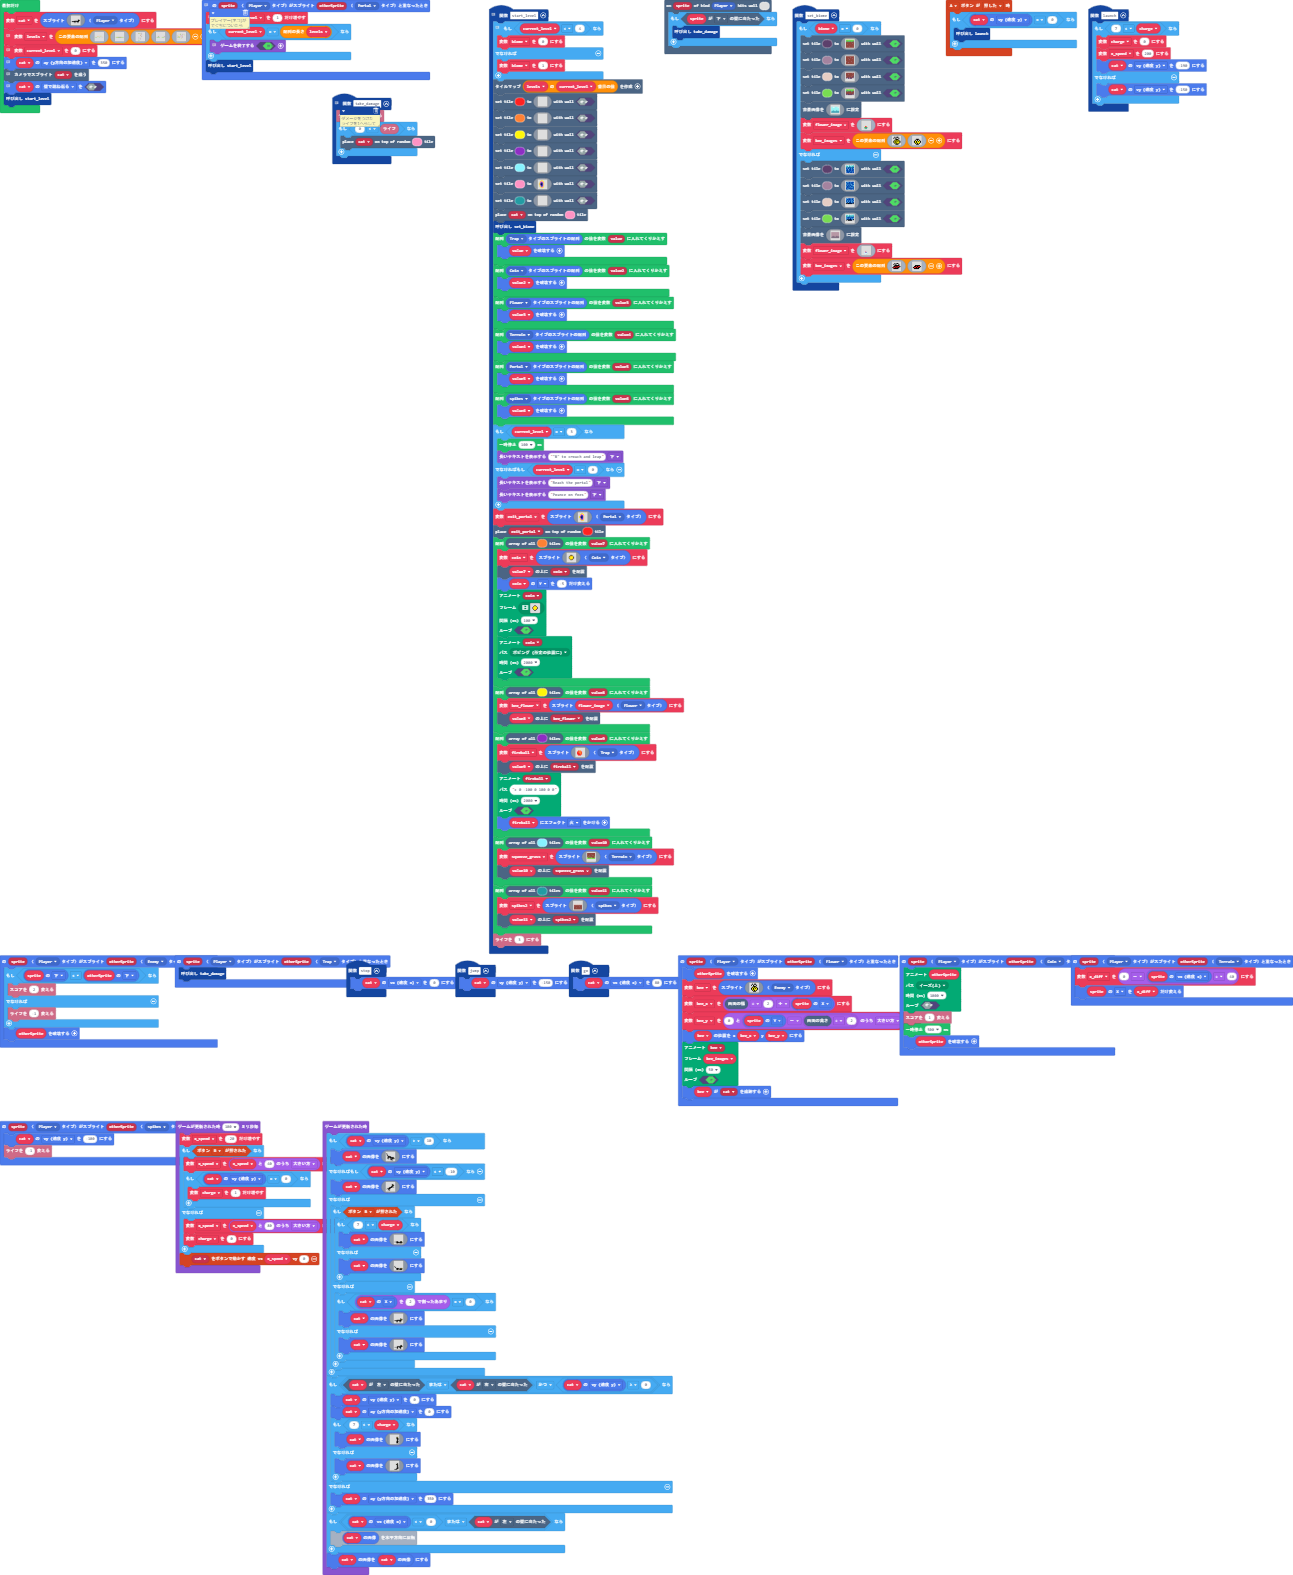
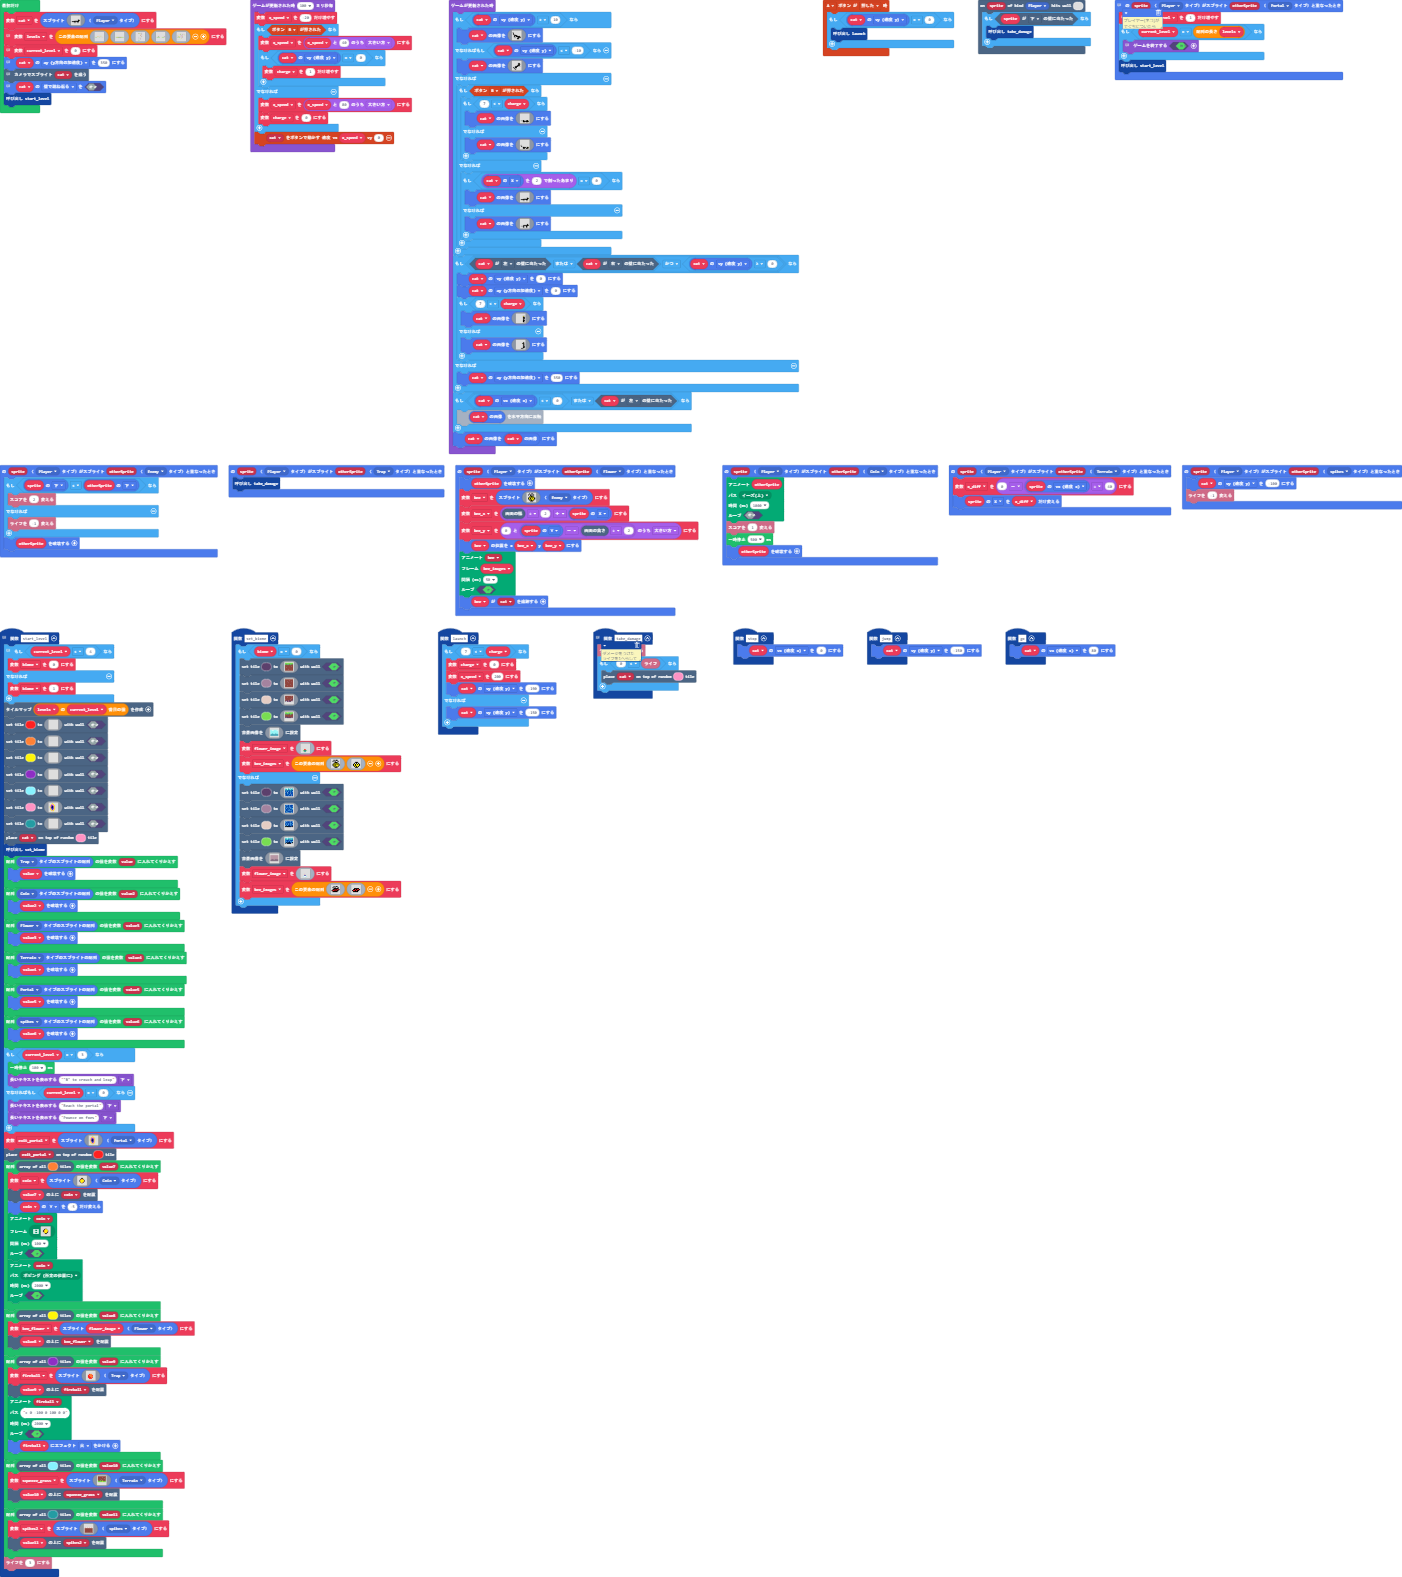
整形

Changed region(s): [[0.0, 0.0, 1.0, 1.0]]

diff --git a/main.ts b/main.ts
@@ -6,17 +6,13 @@ namespace SpriteKind {
     export const Terrain = SpriteKind.create()
     export const spikes = SpriteKind.create()
 }
-// スパイクにあたったら、vy=-100で、とびあがり、ライフがへる
 sprites.onOverlap(SpriteKind.Player, SpriteKind.spikes, function (sprite, otherSprite) {
     cat.vy = -100
     info.changeLifeBy(-1)
 })
-// わなにあたったらダメージ
 sprites.onOverlap(SpriteKind.Player, SpriteKind.Trap, function (sprite, otherSprite) {
     take_damage()
 })
-// コインにあたったら、コインは、とびあがってなくなり
-// スコアが、1ふえる
 sprites.onOverlap(SpriteKind.Player, SpriteKind.Coin, function (sprite, otherSprite) {
     animation.runMovementAnimation(
     otherSprite,
@@ -28,8 +24,6 @@ sprites.onOverlap(SpriteKind.Player, SpriteKind.Coin, function (sprite, otherSpr
     pause(500)
     otherSprite.destroy()
 })
-// チャージが7より大きかったら、チャージつかって、だいジャンプ x_seed=200 vy=-190
-// それいがいなら、ふつうのジャンプ vy=-150
 function launch () {
     if (7 < charge) {
         charge = 0
@@ -62,15 +56,11 @@ function take_damage () {
         scene.placeOnRandomTile(cat, 3)
     }
 }
-// しろいタイルに下から、あたったらダメージ
 scene.onHitTile(SpriteKind.Player, 0, function (sprite) {
     if (sprite.isHittingTile(CollisionDirection.Bottom)) {
         take_damage()
     }
 })
-// はなとぶつかると、はなは、きえて、
-// がめんのばふんぶん、右で、
-// がめんないでがめんのたかさのはんぶんぶんうえから、はちがでてくる。
 sprites.onOverlap(SpriteKind.Player, SpriteKind.Flower, function (sprite, otherSprite) {
     otherSprite.destroy()
     bee = sprites.create(img`
@@ -194,7 +184,6 @@ function start_level () {
         . . . . . . . . . . . . . . . . 
         . . . . . . . . . . . . . . . . 
         `, false)
-    // ピンクがいりぐち
     scene.setTile(3, img`
         . . . . . 5 5 5 . . . . . . . . 
         . . . . 5 3 3 5 5 . . . . . . . 
@@ -231,11 +220,8 @@ function start_level () {
         . . . . . . . . . . . . . . . . 
         . . . . . . . . . . . . . . . . 
         `, false)
-    // ネコはピンク(いりぐち)にいく
     scene.placeOnRandomTile(cat, 3)
     set_biome()
-    // はいれつのなかみをけす
-    // trapわな Coinコイン Flowerはな Terrainトンネル Potalでぐち spikesスパイク
     for (let value of sprites.allOfKind(SpriteKind.Trap)) {
         value.destroy()
     }
@@ -256,7 +242,6 @@ function start_level () {
     }
     if (current_level == 3) {
         pause(100)
-        // Bは、しゃがんでジャンプ
         game.showLongText("\"B\" to crouch and leap", DialogLayout.Bottom)
     } else if (current_level == 0) {
         game.showLongText("Reach the portal", DialogLayout.Bottom)
@@ -280,9 +265,7 @@ function start_level () {
         . . . . 5 3 3 3 5 5 . . . . . . 
         . . . . . 5 5 5 5 . . . . . . . 
         `, SpriteKind.Portal)
-    // あかのタイルが出口
     scene.placeOnRandomTile(exit_portal, 2)
-    // オレンジのタイルはコイン
     for (let value7 of scene.getTilesByType(4)) {
         coin = sprites.create(img`
             . . . . . . . . . . . . . . . . 
@@ -304,7 +287,6 @@ function start_level () {
             `, SpriteKind.Coin)
         value7.place(coin)
         coin.y += -5
-        // まわるコイン
         animation.runImageAnimation(
         coin,
         [img`
@@ -447,7 +429,6 @@ function start_level () {
         100,
         true
         )
-        // 2びょうごとにコインははねる
         animation.runMovementAnimation(
         coin,
         animation.animationPresets(animation.bobbing),
@@ -455,12 +436,10 @@ function start_level () {
         true
         )
     }
-    // きいろタイルは、はな
     for (let value8 of scene.getTilesByType(5)) {
         bee_flower = sprites.create(flower_image, SpriteKind.Flower)
         value8.place(bee_flower)
     }
-    // むらさきのタイルは、ひのたま
     for (let value9 of scene.getTilesByType(10)) {
         fireball = sprites.create(img`
             . . . . . . . . 
@@ -473,7 +452,6 @@ function start_level () {
             . . . . . . . . 
             `, SpriteKind.Trap)
         value9.place(fireball)
-        // うごきまわる、ひのたま
         animation.runMovementAnimation(
         fireball,
         "c 0 -100 0 100 0 0",
@@ -482,7 +460,6 @@ function start_level () {
         )
         fireball.startEffect(effects.fire)
     }
-    // みずいろのタイルは、トンネル
     for (let value10 of scene.getTilesByType(9)) {
         squeeze_grass = sprites.create(img`
             e e e e e e e e e e e e e e e e 
@@ -504,7 +481,6 @@ function start_level () {
             `, SpriteKind.Terrain)
         value10.place(squeeze_grass)
     }
-    // みどりのタイルは、スパイク
     for (let value11 of scene.getTilesByType(6)) {
         spikes2 = sprites.create(img`
             . . . . . . . . . . . . . . . . 
@@ -531,13 +507,10 @@ function start_level () {
 function jump () {
     cat.vy = -150
 }
-// トンネルではゆっくりと、すすませる
 sprites.onOverlap(SpriteKind.Player, SpriteKind.Terrain, function (sprite, otherSprite) {
     x_diff = 0 - sprite.vx / 40
     sprite.x += x_diff
 })
-// biomeへんすうが0なら、つちのタイル
-// それ以外ならば、うみのタイルをよういする。
 function set_biome () {
     if (biome == 0) {
         scene.setTile(12, img`
@@ -1005,8 +978,6 @@ function set_biome () {
             `]
     }
 }
-// てきにぶつかったときに、上からならばスコア+2
-// そうでなければ、ライフ-1  そして、てきはいなくなる
 sprites.onOverlap(SpriteKind.Player, SpriteKind.Enemy, function (sprite, otherSprite) {
     if (sprite.bottom < otherSprite.bottom) {
         info.changeScoreBy(2)
@@ -1018,7 +989,6 @@ sprites.onOverlap(SpriteKind.Player, SpriteKind.Enemy, function (sprite, otherSp
 function go () {
     cat.vx = 80
 }
-// Aボタンがおされたときに、とんでなかったら、ジャンプ
 controller.A.onEvent(ControllerButtonEvent.Pressed, function () {
     if (cat.vy == 0) {
         launch()
@@ -1166,7 +1136,6 @@ scene.cameraFollowSprite(cat)
 cat.setFlag(SpriteFlag.BounceOnWall, false)
 start_level()
 game.onUpdate(function () {
-    // vyにより、とんでいる、おりている、イメージ変える。
     if (cat.vy > 10) {
         cat.setImage(img`
             . . . . . . . . . . . . . . . . 
@@ -1206,7 +1175,6 @@ game.onUpdate(function () {
             . . . . . f . . . . . . . . . . 
             `)
     } else {
-        // あるいていて、Bボタンならチャージたいせいで、チャージがおわったら、しっぽを下げる
         if (controller.B.isPressed()) {
             if (7 < charge) {
                 cat.setImage(img`
@@ -1248,7 +1216,6 @@ game.onUpdate(function () {
                     `)
             }
         } else {
-            // Xいちの、きすうぐうすうで、あるいているイメージをいれかえる
             if (cat.x % 2 == 0) {
                 cat.setImage(img`
                     . . . . . . . . . . . . . . . . 
@@ -1290,11 +1257,9 @@ game.onUpdate(function () {
             }
         }
     }
-    // おちていなければ、かべにつかまる
     if ((cat.isHittingTile(CollisionDirection.Left) || cat.isHittingTile(CollisionDirection.Right)) && cat.vy >= 0) {
         cat.vy = 0
         cat.ay = 0
-        // かべでのチャージのイメージのいれかえ
         if (7 < charge) {
             cat.setImage(img`
                 . . . . . . . . . . . . . . . . 
@@ -1337,21 +1302,15 @@ game.onUpdate(function () {
     } else {
         cat.ay = 350
     }
-    // ひだりむきのときには、いめーじのさゆうをいれかえる
     if (cat.vx < 0 || cat.isHittingTile(CollisionDirection.Left)) {
         cat.image.flipX()
     }
     cat.setImage(cat.image)
 })
-// すすむそくどは、じかんがたちとへる。
-// Bポタンがおされていると、ゆっくり(vx=40いじょう)
-// おされていなと、ふつう(vx=80いじょう)
-// Bボタンを、はなすとチャージは0
 game.onUpdateInterval(100, function () {
     x_speed += -20
     if (controller.B.isPressed()) {
         x_speed = Math.max(x_speed, 40)
-        // とまっているときにBボタンを押しているとチャージ
         if (cat.vy == 0) {
             charge += 1
         }
